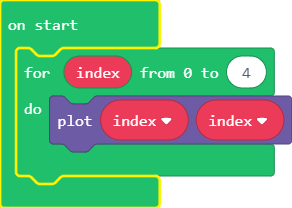
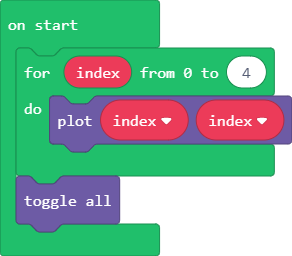
more blocks

diff --git a/microbit.ts b/microbit.ts
@@ -129,7 +129,7 @@ export function toggle(x: number, y: number): void {
 /**
  * Turns all LEDS on
  */
-//%
+//% block
 export function plotAll(): void {
     for (let i = 0; i < 5; i++) {
         for (let j = 0; j < 5; j++) {
@@ -141,7 +141,7 @@ export function plotAll(): void {
 /**
  * Inverts the current LED display
  */
-//%
+//% block 
 export function toggleAll(): void {
     for (let i = 0; i < 5; i++) {
         for (let j = 0; j < 5; j++) {
@@ -165,7 +165,7 @@ let barGraphHighLast = 0;
 //% blockId=device_plot_bar_graph block="plot bar graph of %value up to %high" icon="\uf080" blockExternalInputs=true
 //% parts="ledmatrix"
 export function plotBarGraph(value: number, high: number): void {
-    const now = 0;
+    const now = game.runtime();
     console.logValue("", value);
     value = Math.abs(value);
 

diff --git a/main.ts b/main.ts
@@ -1,3 +1,4 @@
 for (let index = 0; index <= 4; index++) {
     microbit.plot(index, index)
 }
+microbit.toggleAll()
